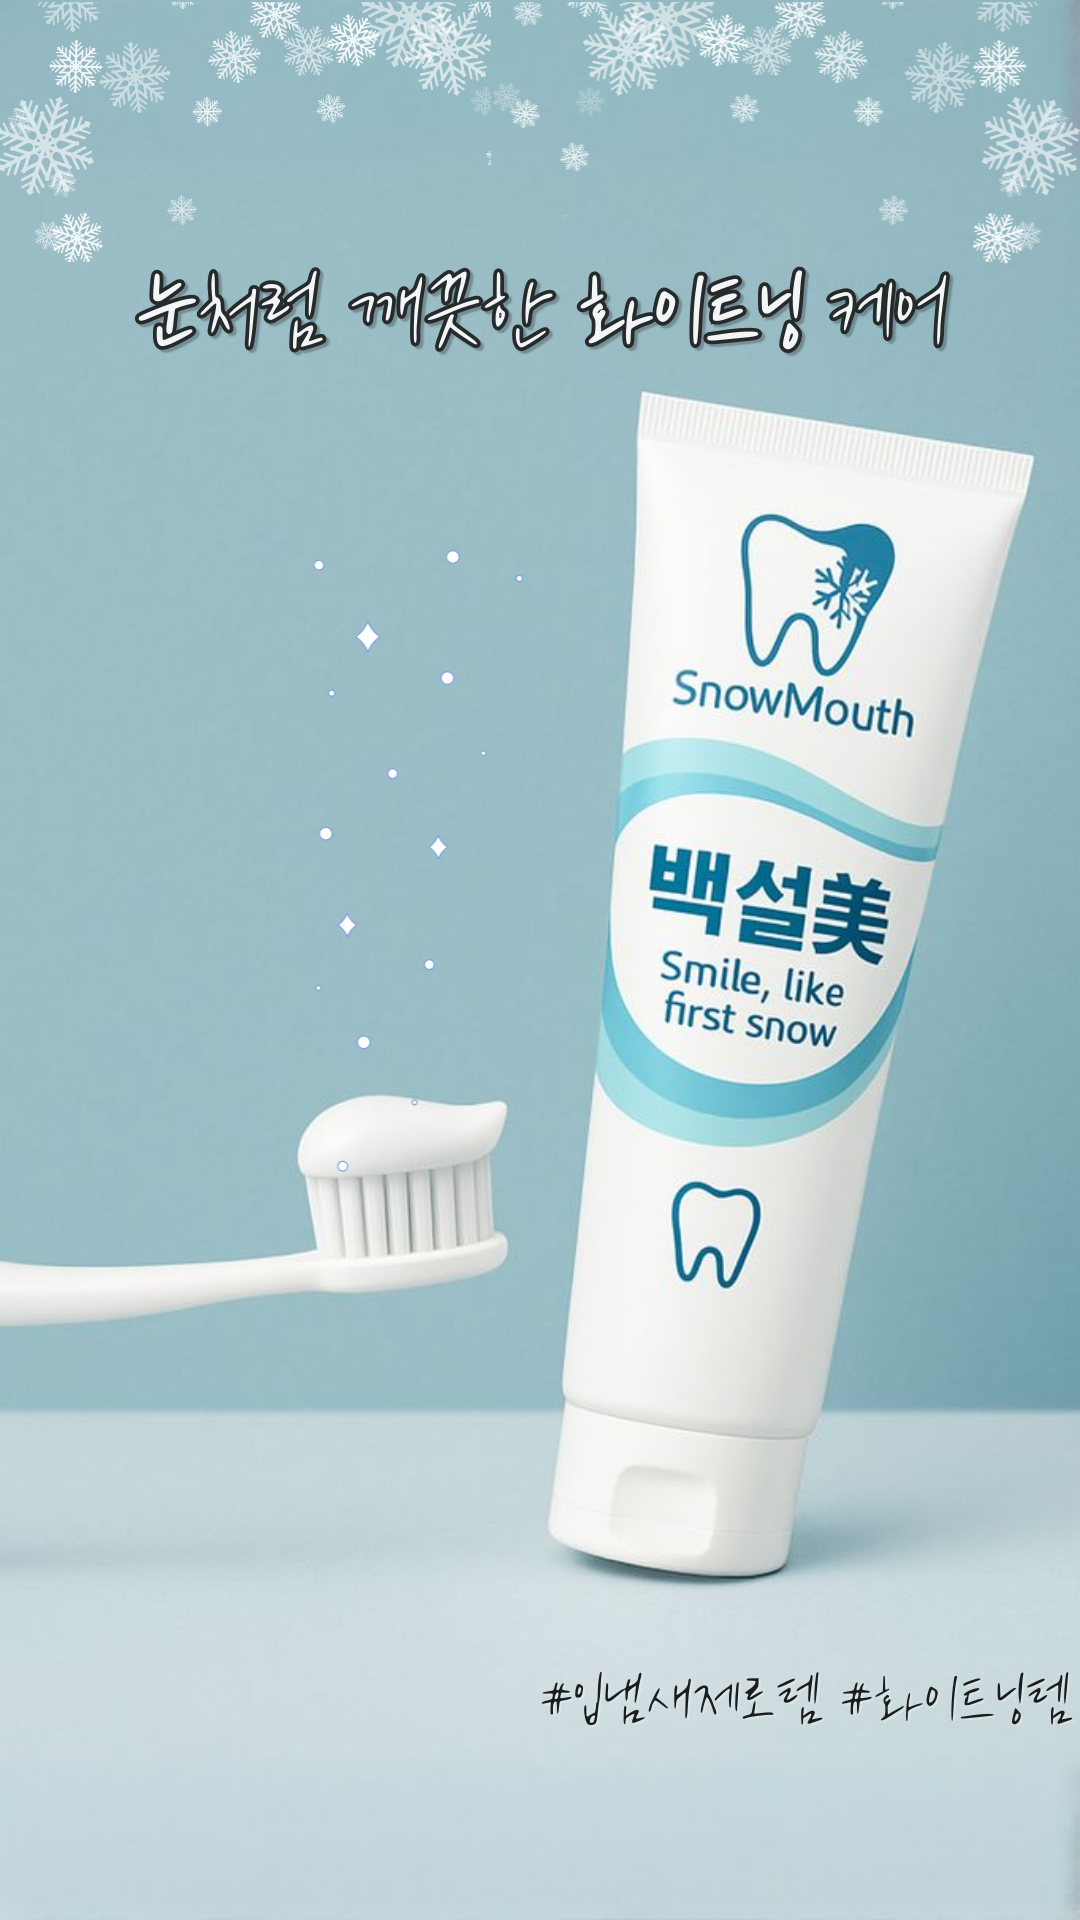
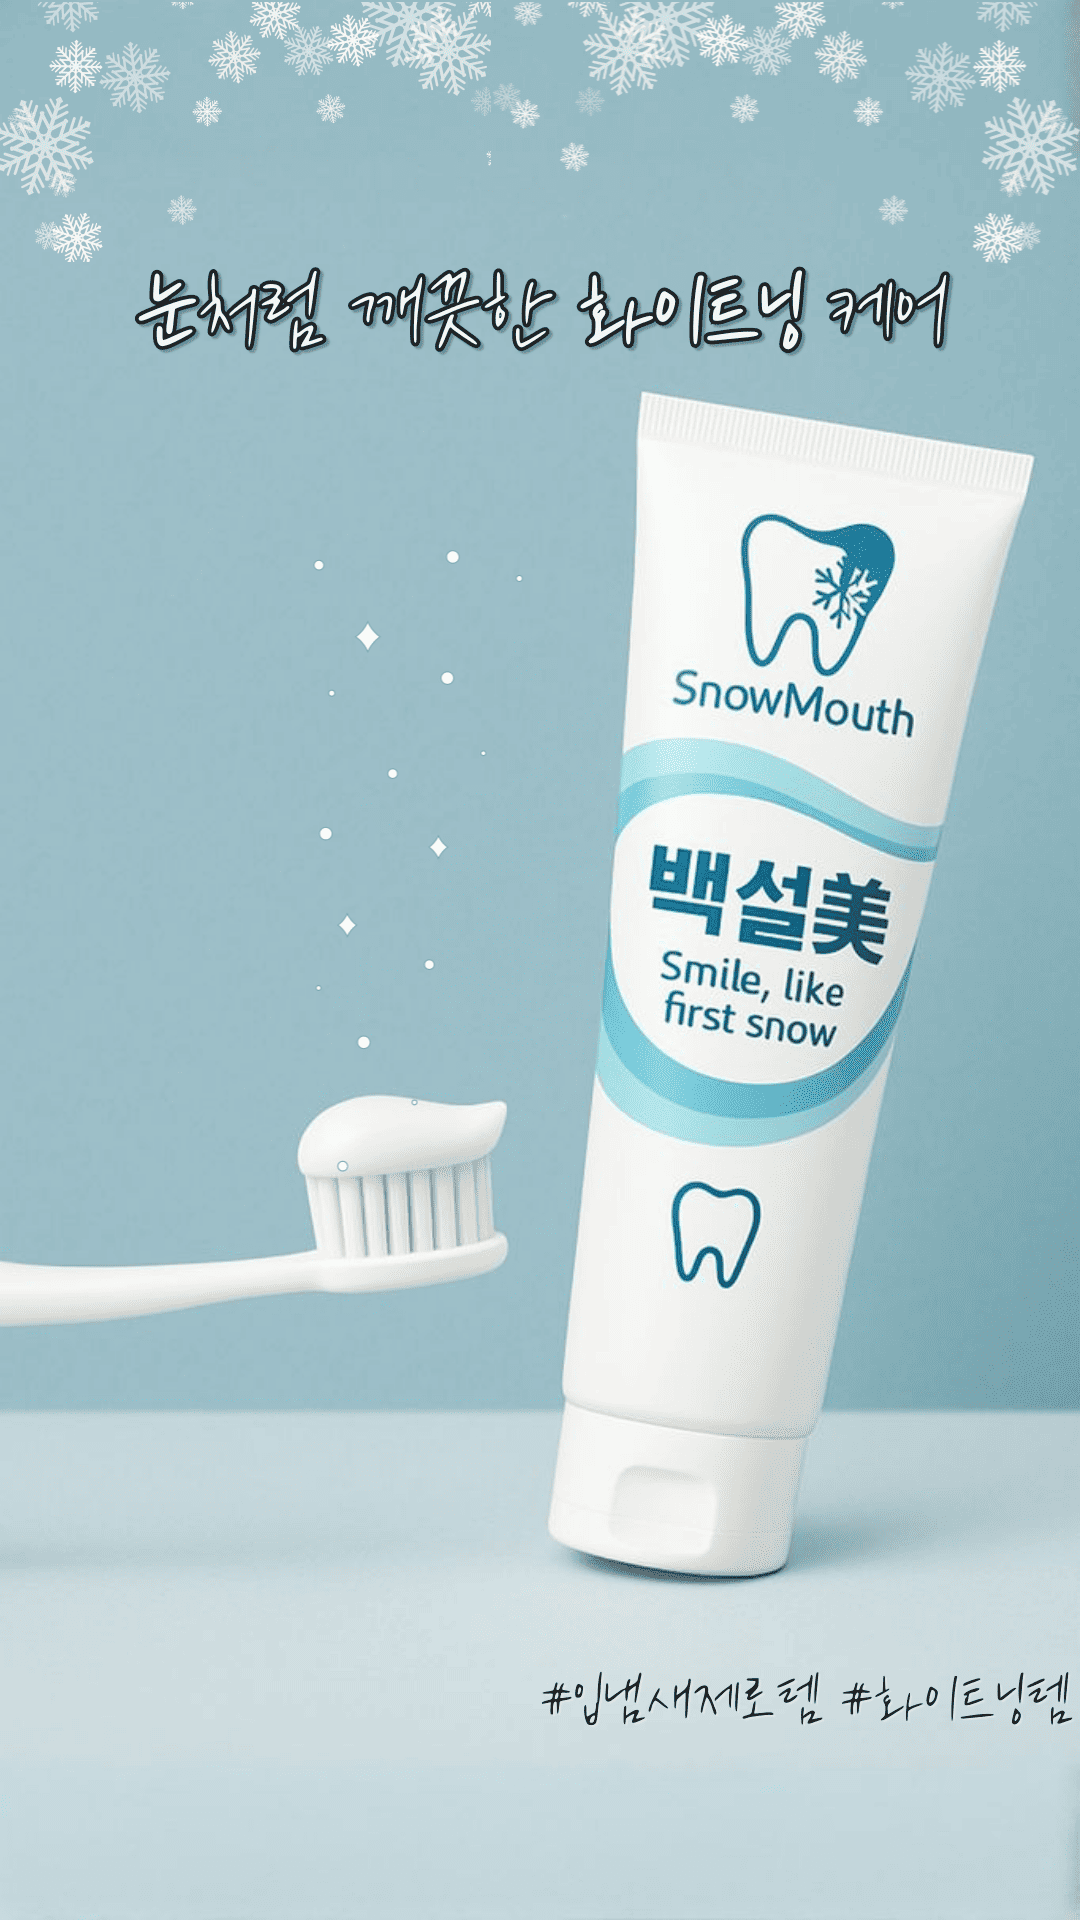
delete: 이미지 용량 문제로 이미지 삭제 후 저용량 이미지 대체

diff --git a/src/components/AdViewer.jsx b/src/components/AdViewer.jsx
@@ -28,7 +28,6 @@ const AdViewer = ({ id, section, contentImg, profileImg, username, setIsPaused }
     <div className="relative w-full h-full bg-black overflow-hidden">
       <img src={contentImg} className="w-full h-full object-cover" alt="ad" />
 
-      {/* 상단 프로필 */}
       <div className="absolute top-3 left-3 flex items-center gap-2 text-white z-10">
         <img
           src={profileImg}
@@ -41,12 +40,10 @@ const AdViewer = ({ id, section, contentImg, profileImg, username, setIsPaused }
         </div>
       </div>
 
-      {/* Sponsored */}
       <div className="absolute top-3 right-3 text-white text-xs bg-white/10 px-3 py-1 rounded">
         Sponsored
       </div>
 
-      {/* 버튼 */}
       <div className="absolute bottom-[6%] left-1/2 -translate-x-1/2 z-10">
         <button
           onClick={(e) => {
